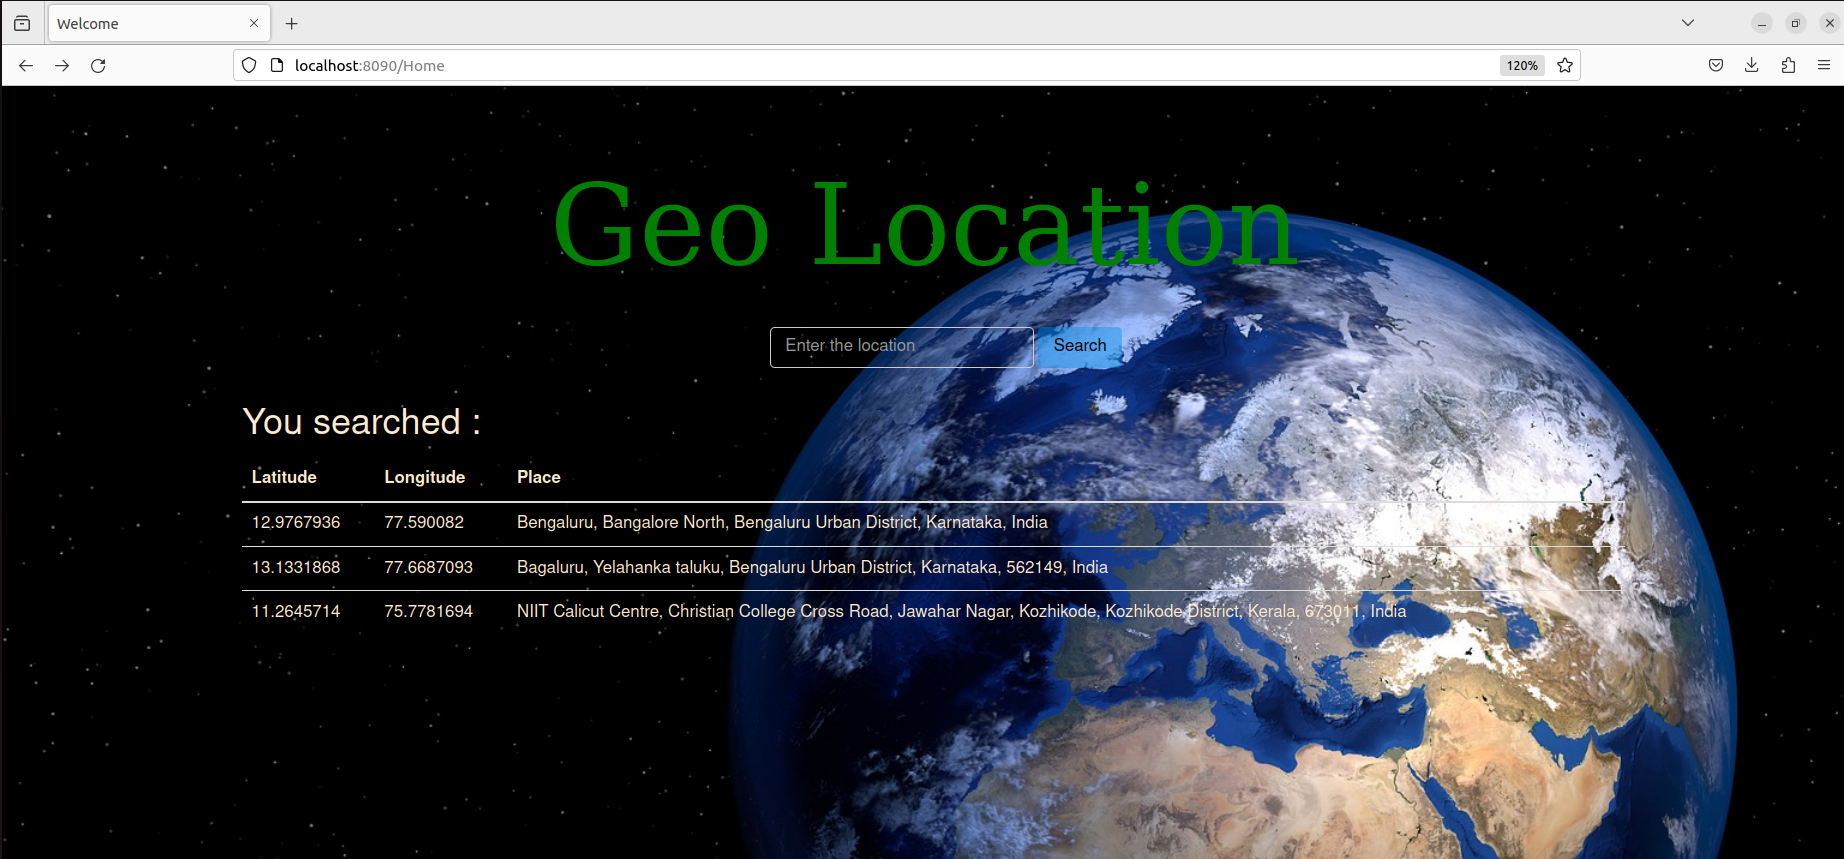
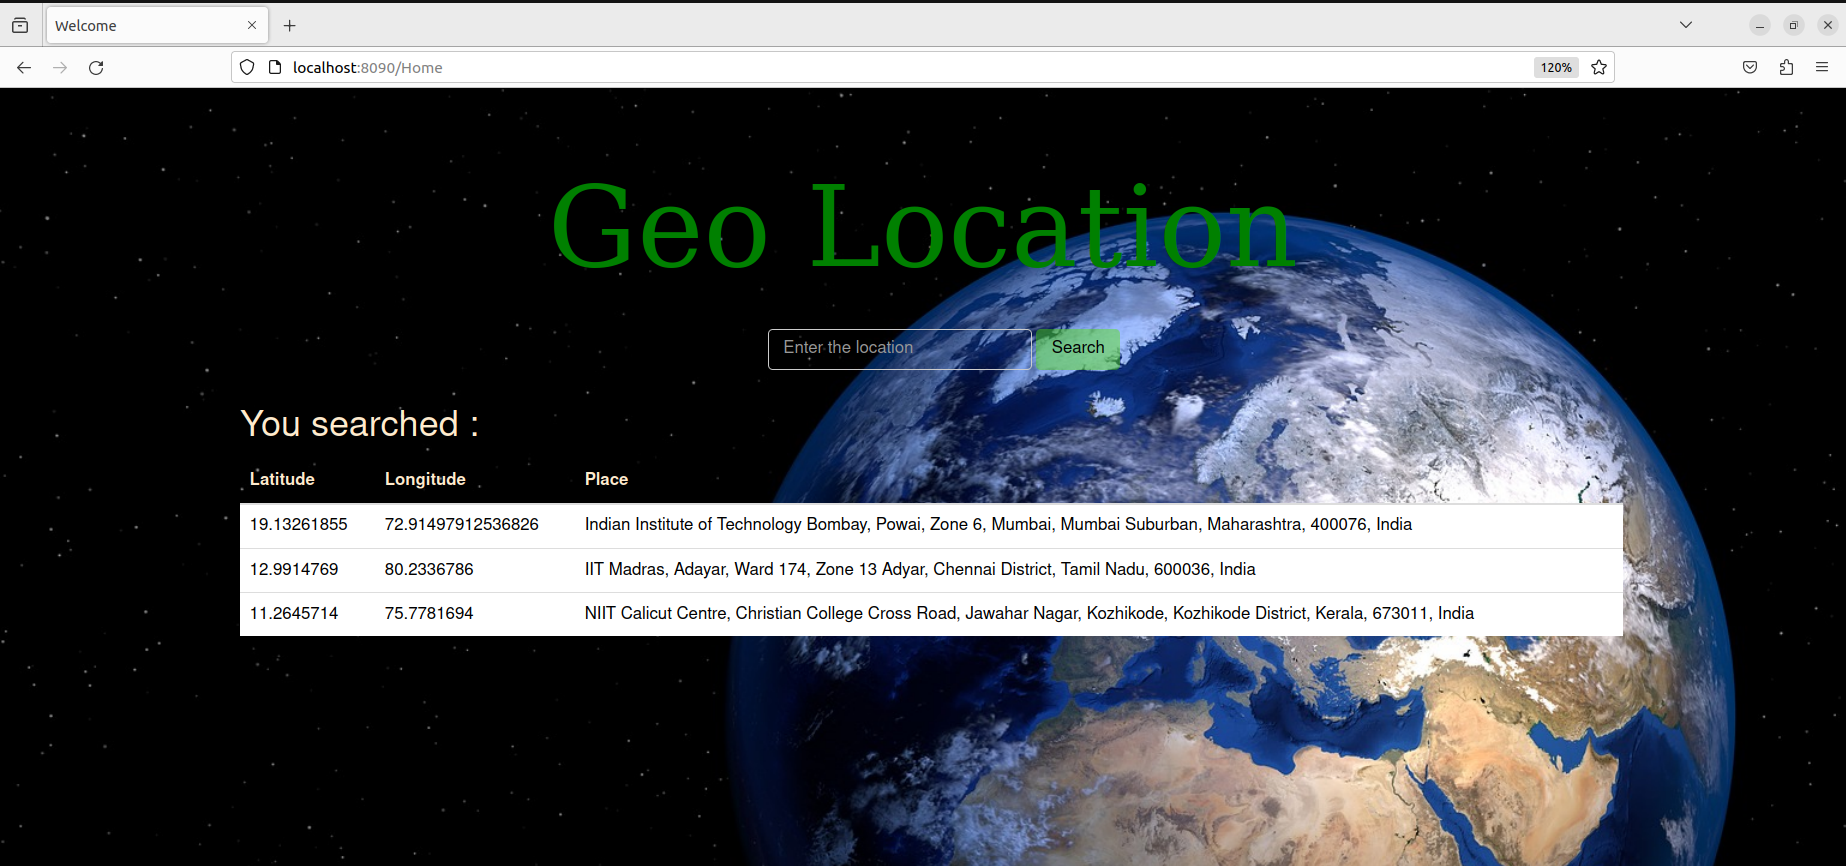
Updated maps frontend style

diff --git a/Project9GeoLocationFinal/src/main/resources/templates/map.html b/Project9GeoLocationFinal/src/main/resources/templates/map.html
@@ -1,42 +1,54 @@
 <!DOCTYPE html>
-<html lang="en" xmlns="http://www.w3.org/1999/xhtml"
-	xmlns:th="http://www.thymeleaf.org"
-	xmlns:sec="http://www.thymeleaf.org/thymeleaf-extras-springsecurity3"
-	xmlns:layout="http://www.ultraq.net.nz/thymeleaf/layout">
+<html lang="en" xmlns="http://www.w3.org/1999/xhtml" xmlns:th="http://www.thymeleaf.org"
+  xmlns:sec="http://www.thymeleaf.org/thymeleaf-extras-springsecurity3"
+  xmlns:layout="http://www.ultraq.net.nz/thymeleaf/layout">
 
 <head>
 
-<meta http-equiv="X-UA-Compatible" content="IE=edge" />
-<script type="text/javascript"></script>
+  <meta charset="UTF-8">
+  <meta name="viewport" content="width=device-width, initial-scale=1.0">
+  <title>Welcome</title>
+  <link rel="stylesheet" href="https://maxcdn.bootstrapcdn.com/bootstrap/3.4.1/css/bootstrap.min.css">
+  <script src="https://ajax.googleapis.com/ajax/libs/jquery/3.7.1/jquery.min.js"></script>
+  <script src="https://maxcdn.bootstrapcdn.com/bootstrap/3.4.1/js/bootstrap.min.js"></script>
+  <link rel="stylesheet" type="text/css" href="style.css" />
 
-<meta charset="UTF-8">
-<title>Sites</title>
+  <meta http-equiv="X-UA-Compatible" content="IE=edge" />
+  <script type="text/javascript"></script>
+
+  <meta charset="UTF-8">
+  <title>MapView</title>
 </head>
 
 <body>
-	<h1>Sites</h1>
-	<button id="myButton" class="float-left submit-button" >Home</button>
+  <nav aria-label="breadcrumb">
+    <ol class="breadcrumb">
+      <li class="breadcrumb-item"><a href="#">Maps</a></li>
+      <li class="breadcrumb-item active" aria-current="page" th:text="${Location}"></li>
+    </ol>
+  </nav>
+  <button id="myButton" class="btn btn-outline-success my-2 my-sm-0" >Home</button>
 
-<script type="text/javascript">
+  <script type="text/javascript">
     document.getElementById("myButton").onclick = function () {
-        location.href = "/Home";
+      location.href = "/Home";
     };
-</script>
-	
-	
+  </script>
 
 
-	<iframe height=1000 width=100% th:src="${urll}"></iframe>
 
-	<!-- 
-	<iframe height=1000 width=100% th:src="@{urll}"></iframe>
-	
-		<div class="gmap_canvas">
-			<iframe width="600" height="500" id="gmap_canvas"
-				src="https://nominatim.openstreetmap.org/ui/search.html?q=bangalore" frameborder="0" scrolling="no"
-				marginheight="0" marginwidth="0"></iframe>
-		</div>
-		-->
+
+  <iframe height=1000 width=100% th:src="${urll}"></iframe>
+
+  <!-- 
+    <iframe height=1000 width=100% th:src="@{urll}"></iframe>
+    
+      <div class="gmap_canvas">
+        <iframe width="600" height="500" id="gmap_canvas"
+          src="https://nominatim.openstreetmap.org/ui/search.html?q=bangalore" frameborder="0" scrolling="no"
+          marginheight="0" marginwidth="0"></iframe>
+      </div>
+      -->
 </body>
 
 </html>

diff --git a/Project9GeoLocationFinal/src/main/resources/static/style.css b/Project9GeoLocationFinal/src/main/resources/static/style.css
@@ -25,8 +25,14 @@
 }
     
 #search-button{
-	background-color: #028fe36e;
+	background-color: #53e3026e;;
 	
+}
+
+#myButton {
+  background-color: #02cee33d;
+  margin-top: -97px;
+  margin-left: 160px;
 }
 
 .data-elements{
@@ -40,4 +46,9 @@
     background-image: url('MapBackground.jpg');
     padding-bottom: 500px;
     color: blanchedalmond;
+}
+
+.table-body{
+  color: black;
+  background-color: white;
 }

diff --git a/Project9GeoLocationFinal/src/main/resources/templates/Search.html b/Project9GeoLocationFinal/src/main/resources/templates/Search.html
@@ -33,7 +33,7 @@
       <th scope="col">Place</th>
     </tr>
   </thead>
-  <tbody>
+  <tbody class="table-body">
 			<tr th:each="loc : ${locList}">
 				<td th:text="${loc.getLat()}"></td>
 				<td th:text="${loc.getLon()}"></td>

diff --git a/Project9GeoLocationFinal/src/main/java/com/oreilly/Project9/Controllers/MapController.java b/Project9GeoLocationFinal/src/main/java/com/oreilly/Project9/Controllers/MapController.java
@@ -36,6 +36,7 @@ public class MapController {
 //		        .toURL();
 //		System.out.println(myUrl);
 		model.addAttribute("urll", urll);
+		model.addAttribute("Location",searchLocation);
 		//model.addAttribute("urll","https://nominatim.openstreetmap.org/ui/search.html?q=12.9767936,77.590082");
 //		model.addAttribute("url1", "");
 //		model.addAttribute("url2",location[0].getLat()+','+location[0].getLon());
@@ -49,6 +50,7 @@ public class MapController {
 		//System.out.println(location);
 		String urll = mapService.getURL(location.getLat(), location.getLon());
 		model.addAttribute("urll", urll);
+		model.addAttribute("Location",loc);
 		List<Location> locations = geoService.getSavedLocationsService();
 		//locations.forEach(System.out::println);
 		model.addAttribute("locList",locations);
